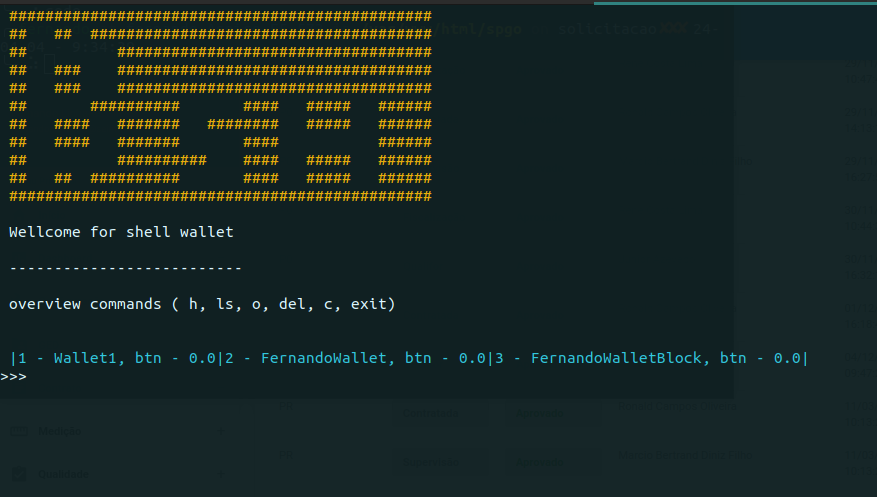
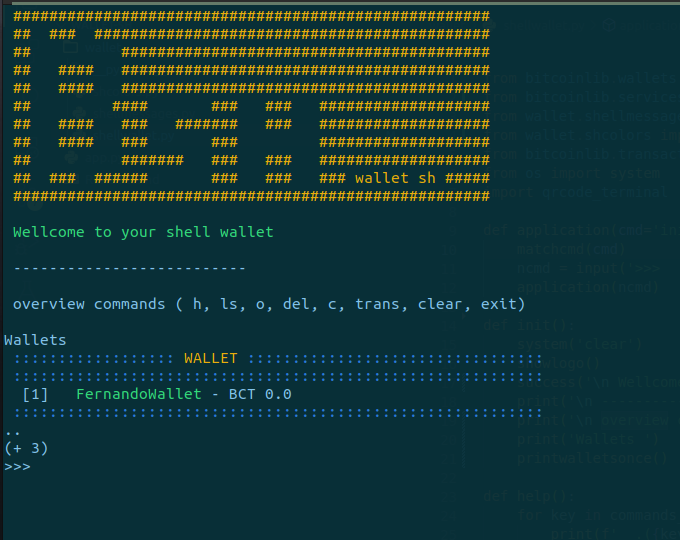
adding search transactions inff

diff --git a/wallet/shellwallet.py b/wallet/shellwallet.py
@@ -1,5 +1,7 @@
 from bitcoinlib.wallets import Wallet, Mnemonic, wallets_list, wallet_create_or_open, wallet_delete_if_exists
+from bitcoinlib.services.services import Service
 from wallet.shellmessages import primary, success, info, warn, danger
+from wallet.shcolors import shcolors
 from bitcoinlib.transactions import Transaction
 from os import system
 import qrcode_terminal
@@ -9,32 +11,51 @@ def application(cmd='init'):
     ncmd = input('>>>  ')
     application(ncmd)
 
-
 def init():
     system('clear')
     showlogo()
-    print('\n Wellcome for shell wallet')
+    success('\n Wellcome to your shell wallet')
     print('\n --------------------------')
-    print('\n overview commands ( h, ls, o, del, c, exit)\n')
-    printwallets()
+    print('\n overview commands ( h, ls, o, del, c, trans, clear, exit)\n')
+    print('Wallets ')
+    printwalletsonce()
 
 def help():
     for key in commands_desc.keys():
         print(f'  .({key}) - {commands_desc[key]} .')
 
+def printwalletsonce():
+
+    wallets = listwallets()
+    if len(wallets) > 0:
+        wallet = Wallet(wallets[0]['id'])
+        balance = wallet.balance()
+        colors = shcolors()
+        print(f' {colors.OKBLUE}::::::::::::::::::{colors.ENDC} {colors.WARNING}WALLET{colors.ENDC} {colors.OKBLUE}:::::::::::::::::::::::::::::::::{colors.ENDC}')
+        primary(':::::::::::::::::::::::::::::::::::::::::::::::::::::::::::')
+        print(f"  [{wallets[0]['id']}]   {colors.OKGREEN}{wallet.name}{colors.ENDC} - BCT {balance}")
+        primary(':::::::::::::::::::::::::::::::::::::::::::::::::::::::::::')
+        print('..')
+
+        if len(wallets) > 1:
+            print(f'(+ {len(wallets) - 1})')
+
+def clear(w=None):
+    system('clear')
+
 def printwallets():
 
-    optraw = ''
-    wraw = '|'
+    for w in listwallets():
+        id = w['id']
 
-    for [i, w] in enumerate(listwallets()):
-        n = i + 1
         wallet = Wallet(w['name'])
         balance = wallet.balance()
-        wraw += f"{n} - {w['name']}, btn - {balance}|"
-
-    primary(optraw)
-    info(wraw)
+        colors = shcolors()
+        print(f' {colors.OKBLUE}::::::::::::::::::{colors.ENDC} {colors.WARNING}WALLET{colors.ENDC} {colors.OKBLUE}:::::::::::::::::::::::::::::::::{colors.ENDC}')
+        primary(':::::::::::::::::::::::::::::::::::::::::::::::::::::::::::')
+        print(f"  [{id}]   {colors.OKGREEN}{w['name']}{colors.ENDC} - BCT {balance}                    ")
+        primary(':::::::::::::::::::::::::::::::::::::::::::::::::::::::::::')
+        print('')
 
 def listwallets():
     return wallets_list()
@@ -48,7 +69,7 @@ def open():
 
     if len(wl) == 1:
         w = Wallet(wl[0]['id'])
-        w.info()
+        walletinfo(wl[0]['id'])
         info('commands (out, addr, qrcode, transact)')
         return walletopen(w)
 
@@ -56,10 +77,27 @@ def open():
     system('clear')
 
     w = Wallet(id)
-    w.info()
+    walletinfo(id, w)
     info('commands (out, addr, qrcode, transact)')
     walletopen(w)
     
+
+def walletinfo(id, w: Wallet):
+    warn("::::::::::::::::::::::::::::::::::::::::::::::::::::")
+    warn(f"  Id:      {id}")
+    warn(f"  Name:    {w.name}")
+    warn(f"  Balance: {w.balance()} ₿")
+    warn(f"  Address: {w.get_key().address}")
+    primary(f"  Transactions: {len(w.transactions())}")
+    warn("::::::::::::::::::::::::::::::::::::::::::::::::::::")
+
+def showinfotransaction():
+    txid = input("Insert Transaction Id: ")
+    servicename = input("Insert Service Name: ")
+
+    service = Service(network=servicename);
+    t = service.gettransaction(txid)
+    t.info()
 
 def walletopen(wallet):
     cmd = input(f'{wallet.name} >>> ')
@@ -70,7 +108,9 @@ def createwallet():
     mnemonic = Mnemonic()
     pkeys = mnemonic.generate(strength=256, add_checksum=True)
 
-    wallet_create_or_open(name, password=pkeys)
+    nw = input('Choose the wallet netowork: ')
+
+    wallet_create_or_open(name, password=pkeys, network=nw)
 
     primary('\n\tWrite this private key to access the wallet\n')
     listpk = pkeys.split(' ')
@@ -102,7 +142,9 @@ commands = {
     'h': help,
     'o': open,
     'c': createwallet,
-    'del': deletewallet
+    'del': deletewallet,
+    'clear': clear,
+    'trans': showinfotransaction
 }
 
 commands_desc = {
@@ -110,7 +152,9 @@ commands_desc = {
     'exit': 'Exit of application',
     'o': 'Open an wallet',
     'c': 'Create a wallet',
-    'del': 'Delete some wallet'
+    'del': 'Delete some wallet',
+    'trans': 'Trasaction Info Search',
+    'clear': 'Clear shell content'
 }
 
 def out(wallet):
@@ -135,19 +179,20 @@ def transact(wallet):
     primary(f"- Value: {value}")
     tx.info()
 
-
 wcommands = {
     'out': out,
     'addr': showaddress,
     'qrcode': showqrcode,
-    'transact': transact
+    'transact': transact,
+    'clear': clear
 }
 
 wcommands_desc = {
     'out': 'Go back for the begin',
     'addr': 'Show the address of wallet', 
     'qrcode': 'Show Qrcode for transactions',
-    'transact': 'Transact balance for another wallet'
+    'transact': 'Transact balance for another wallet',
+    'clear': 'Clear shell content'
 }
 
 def matchwcmd(cmd, wallet):
@@ -158,14 +203,14 @@ def matchcmd(cmd):
     return commands[cmd]()
 
 def showlogo():
-    warn("###############################################")
-    warn("##   ##  ######################################")
-    warn("##          ###################################")
-    warn("##   ###    ###################################")
-    warn("##   ###    ###################################")
-    warn("##       ##########       ####   #####   ######")
-    warn("##   ####   #######   ########   #####   ######")
-    warn("##   ####   #######       ####           ######")
-    warn("##          ##########    ####   #####   ######")
-    warn("##   ##  ##########       ####   #####   ######")
-    warn("###############################################")
+    warn("#####################################################")
+    warn("##  ###  ############################################")
+    warn("##          #########################################")
+    warn("##   ####   #########################################")
+    warn("##   ####   #########################################")
+    warn("##         ####       ###   ###   ###################")
+    warn("##   ####   ###   #######   ###   ###################")
+    warn("##   ####   ###       ###         ###################")
+    warn("##          #######   ###   ###   ###################")
+    warn("##  ###  ######       ###   ###   ### wallet sh #####")
+    warn("#####################################################")

diff --git a/README.md b/README.md
@@ -13,4 +13,5 @@ Bitcoin Shell Wallet for make wallets and transactions in you own shell
 
 ![alt bitcoin Shell overview image 3](image-2.png)
 
-
+### Verification of transactions
+![alt text](image-1.png)
